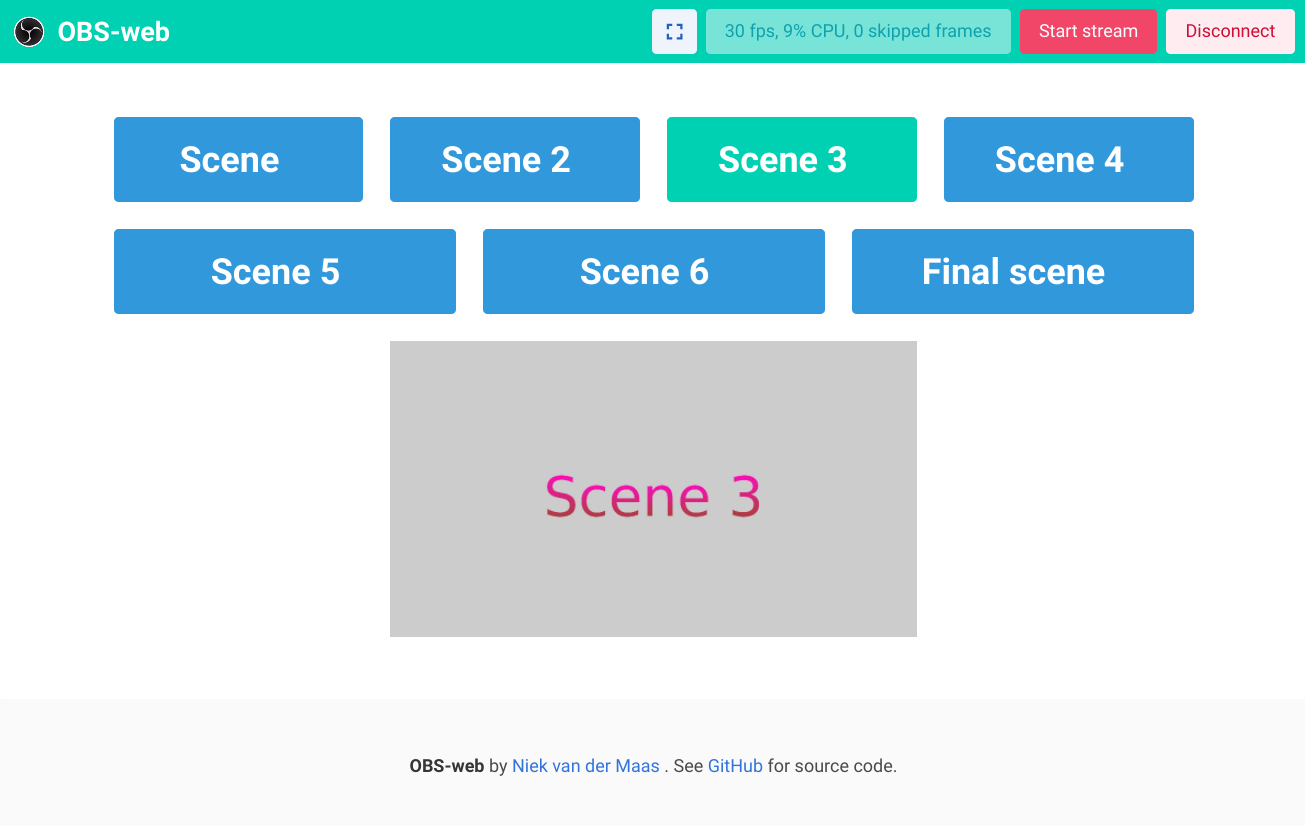
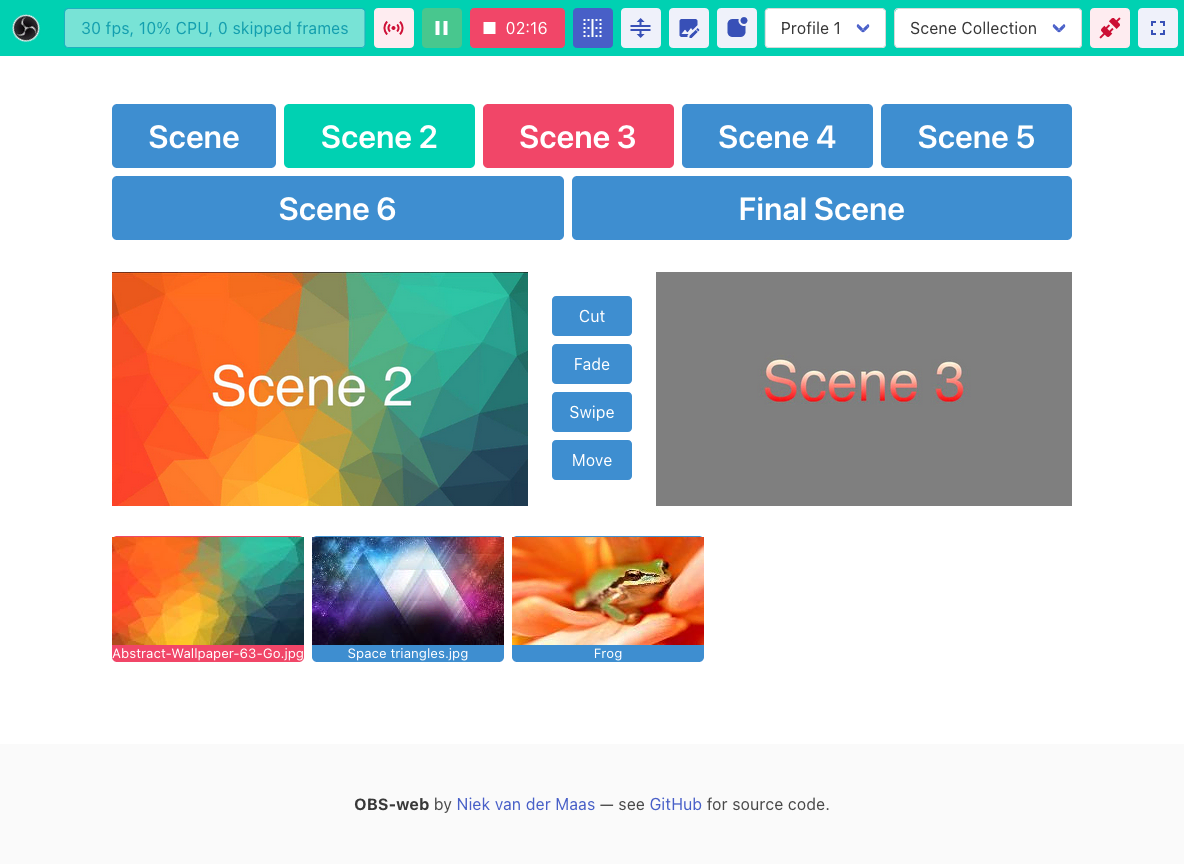
update screenshot, save space in toolbar

diff --git a/src/App.svelte b/src/App.svelte
@@ -208,15 +208,13 @@
 </script>
 
 <svelte:head>
-  <title>OBS-web - control OBS from anywhere</title>
+  <title>OBS-web remote control</title>
 </svelte:head>
 
 <nav class="navbar is-primary" aria-label="main navigation">
   <div class="navbar-brand">
     <a class="navbar-item is-size-4 has-text-weight-bold" href="/">
-      <img src="favicon.png" alt="OBS-web" class="rotate" />
-      &nbsp; OBS-web
-    </a>
+      <img src="favicon.png" alt="OBS-web" class="rotate" /></a>
 
     <!-- svelte-ignore a11y-missing-attribute -->
     <button class="navbar-burger burger" aria-label="menu" aria-expanded="false" data-target="navmenu">
